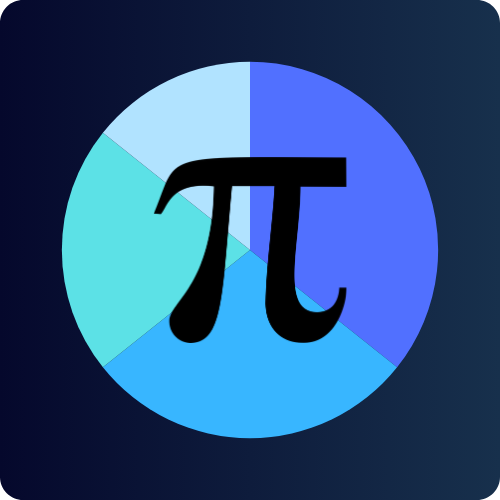
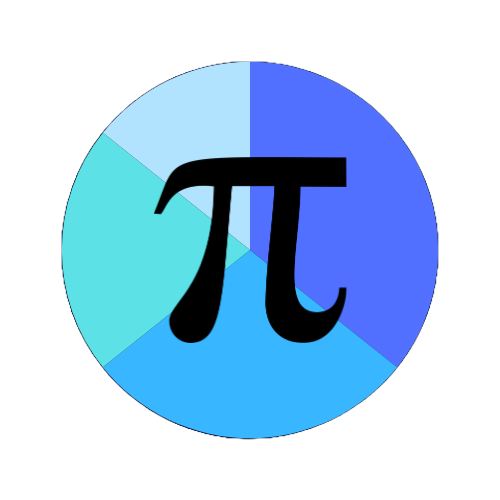
fix some things

diff --git a/frontend/pages/Communities/discord-servers.html b/frontend/pages/Communities/discord-servers.html
@@ -19,7 +19,7 @@
             
             <div class="TabServers">
                 <div class="Cover">
-                <img src="../../assets/images/lugu.png">
+                <img src="../../assets/images/PhiCSS-logo.jpg">
                 <h1>Phiccs</h1>
                 </div>
 
@@ -27,7 +27,7 @@
                 <h3>PHICSS</h3>
                 <p>Where Coders Hangout, Talk and share their knowledge.</p>
                 </div>
-                <button>Join Now</button>
+                <a href="https://discord.gg/yeHwmGBvrk" target="_blank" rel="noopener noreferrer" class="tabservers-button">Join Now</a>
             </div>
 
             <div class="TabServers">

diff --git a/frontend/style.css b/frontend/style.css
@@ -1579,7 +1579,7 @@ color: #149CEA;
   color: #97d9ff;
 }
 
-.TabServers button{
+.tabservers-button{
   font-size: 15px;
   margin: 50px 0px 0px 0px;
   font-weight: bolder;
@@ -1593,7 +1593,7 @@ color: #149CEA;
   transition: all 0.2s ease-in-out; 
 }
 
-.TabServers button:hover{
+.tabservers-button:hover{
   background-color: #0088ff31;
 }
 